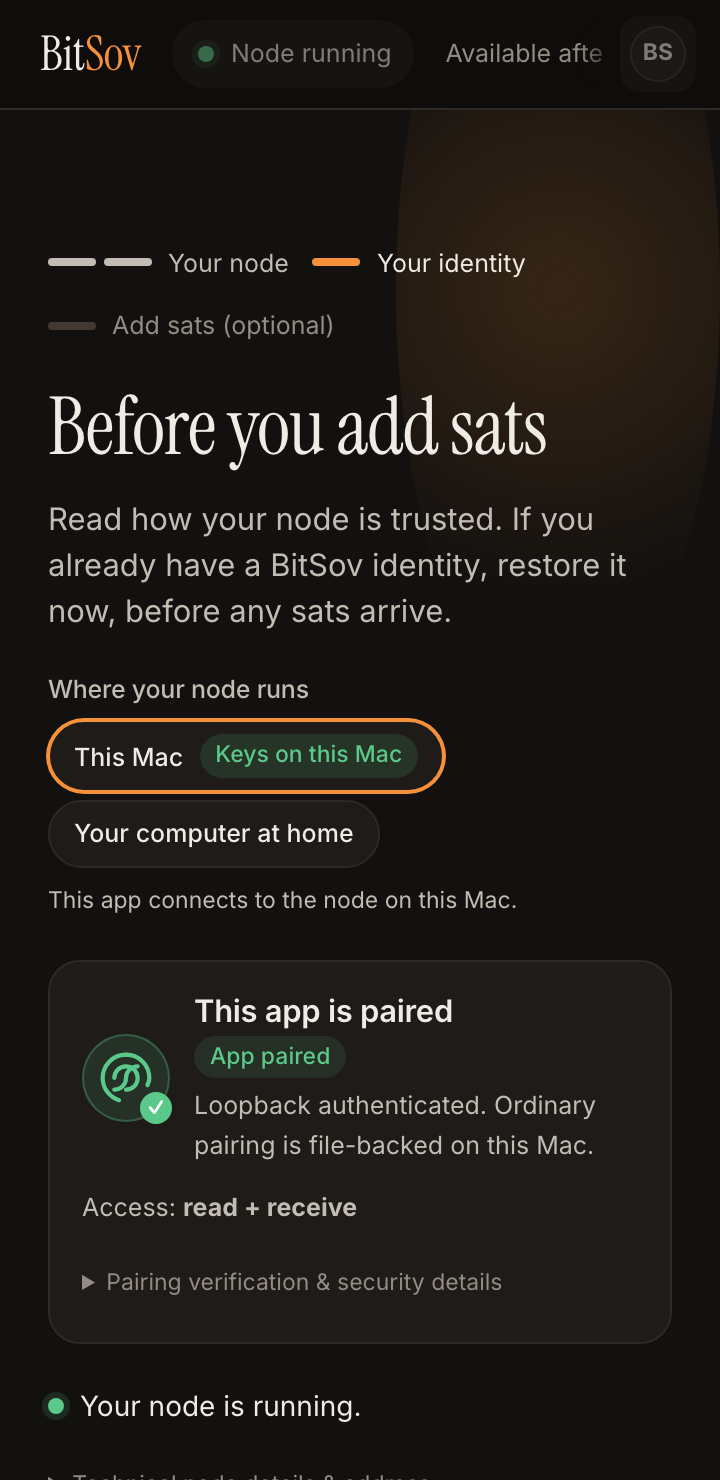
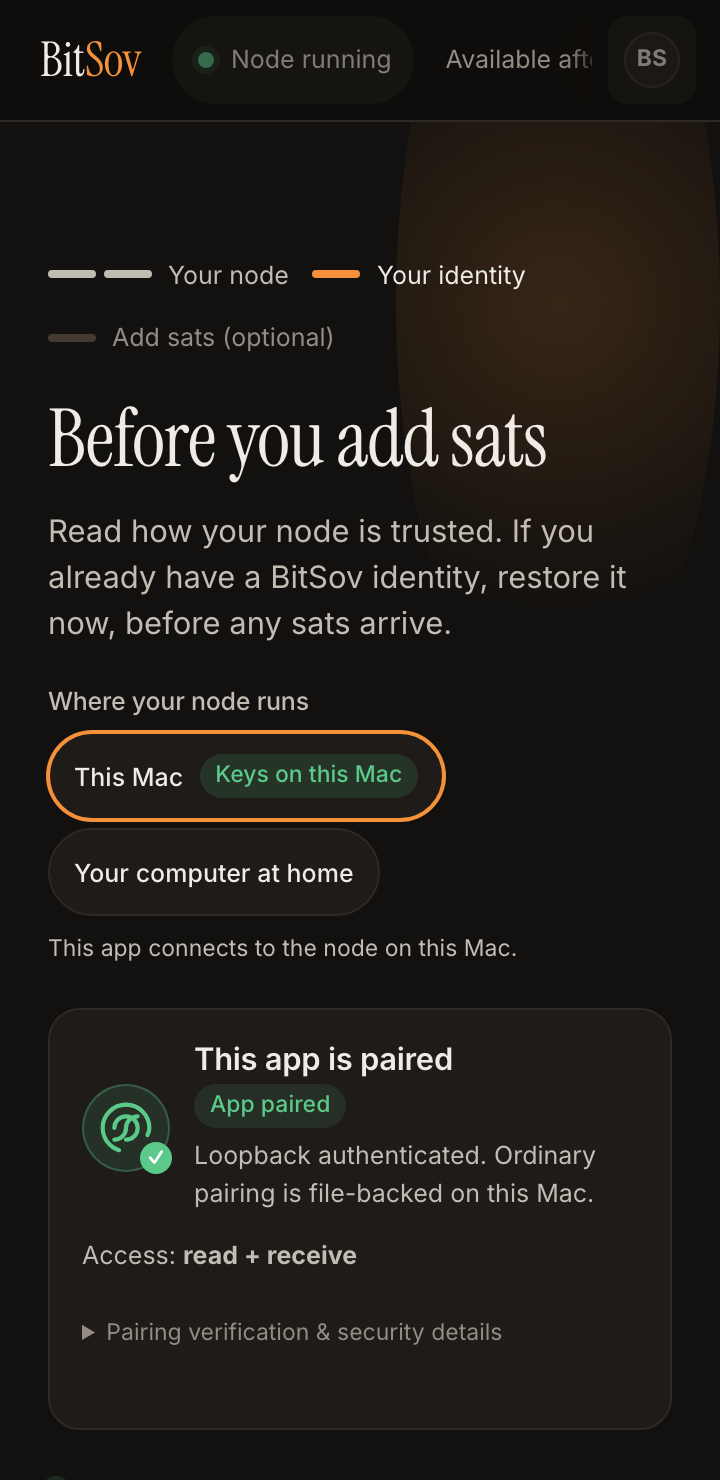
fix(ui): phone layout round 1: + New reachable, 44 px tap targets, menu fits 481–680 px
- + New (node-id QR, introduction card, starter bitcoin) is never hidden:
  it is pinned with You at the strip's right edge (a 44 px "+" on a phone,
  its name still "+ New").
- Phone tap targets: every button, tab, disclosure, radio and menu row is
  at least 44 px (budget choices, You, menu rows, composer buttons, Send,
  theme/amount toggles, Body rows, the cost ⓘ's tap area).
- The message text gets its own full row on a phone; emoji, voice, + and
  Send sit under it.
- The pinned foot and the downward You menu now apply wherever the rail is
  a top strip (≤ 680 px), fixing the pre-existing clipping at 481–680 px.
  The menu's top comes from --bar-h (and the safe area), not a literal.
- capture-phone.cjs reports any tap target under 44 × 44 (TAPS=1): none on
  19 surfaces at 360 and 390 px, and no sideways scroll.

diff --git a/tests/phone-layout.test.ts b/tests/phone-layout.test.ts
@@ -2,47 +2,70 @@ import { readFileSync } from 'node:fs';
 import { join } from 'node:path';
 import { describe, expect, it } from 'vitest';
 
-// Phone (< 480 px): wallet, profile and settings stay one tap away, nothing
-// opens off screen, and approvals and settings fit the width. Pinned here so a
-// later desktop change cannot quietly take them away. Measured with
-// scripts/design/capture-phone.cjs at 360 and 390 px (no sideways page scroll).
+// Narrow and phone layouts: + New and You (wallet, profile, settings) stay
+// reachable, nothing opens off screen, and every phone tap target is at least
+// 44 px. Measured with scripts/design/capture-phone.cjs (TAPS=1) at 360 and
+// 390 px: no sideways page scroll and no target under 44 × 44.
 const css = readFileSync(join(__dirname, '../src/styles.css'), 'utf8').replace(/\/\*[\s\S]*?\*\//g, '');
-function phone(): string {
-  const at = css.indexOf('@media (max-width: 480px)');
-  expect(at).toBeGreaterThan(-1);
-  let depth = 0;
-  let i = css.indexOf('{', at);
-  const start = i;
-  for (; i < css.length; i++) {
-    if (css[i] === '{') depth++;
-    else if (css[i] === '}' && --depth === 0) break;
+/** Every `{…}` body of the given @media query, in source order. */
+function blocks(query: string): string[] {
+  const out: string[] = [];
+  for (let at = css.indexOf(query); at >= 0; at = css.indexOf(query, at + 1)) {
+    let depth = 0;
+    let i = css.indexOf('{', at);
+    const start = i;
+    for (; i < css.length; i++) {
+      if (css[i] === '{') depth++;
+      else if (css[i] === '}' && --depth === 0) break;
+    }
+    out.push(css.slice(start, i));
   }
-  return css.slice(start, i);
+  return out;
 }
-const rule = (block: string, selector: string) => {
-  const m = block.match(new RegExp(`${selector.replace(/[.*+?^${}()|[\]\\]/g, '\\$&')}\\s*\\{([^}]*)\\}`));
+const rule = (b: string, selector: string) => {
+  const m = b.match(new RegExp(`${selector.replace(/[.*+?^${}()|[\]\\]/g, '\\$&')}\\s*\\{([^}]*)\\}`));
   return m ? m[1] : '';
 };
+// The narrow block that pins the rail foot (an older 680 px block sets up the strip itself).
+const narrow = blocks('@media (max-width: 680px)').find((b) => /\.rail-foot\s*\{[^}]*sticky/.test(b)) ?? '';
+const phone = blocks('@media (max-width: 480px)')[0] ?? '';
 
-describe('phone layout', () => {
-  const p = phone();
-  it('keeps You (wallet, profile, settings) pinned in view on the top strip', () => {
-    expect(rule(p, '.rail-foot')).toMatch(/position:\s*sticky/);
-    expect(rule(p, '.rail-foot')).toMatch(/right:\s*0/);
+describe('narrow layout (top strip)', () => {
+  it('pins + New and You at the strip’s right edge, at least 44 px', () => {
+    expect(rule(narrow, '.rail-foot')).toMatch(/position:\s*sticky/);
+    expect(rule(narrow, '.rail-foot')).toMatch(/right:\s*0/);
+    expect(rule(narrow, '.rail-foot .new-track')).toMatch(/min-height:\s*44px/);
+    expect(rule(narrow, '.profile-avatar')).toMatch(/min-width:\s*44px/);
+    expect(rule(narrow, '.profile-avatar')).toMatch(/min-height:\s*44px/);
+    // + New is never hidden: it is the only way to the node-id QR, the intro card and starter bitcoin.
+    expect(css).not.toMatch(/\.new-track\s*\{[^}]*display:\s*none/);
   });
-  it('opens the You menu down from the bar, inside the screen', () => {
-    const m = rule(p, '.avatar-menu');
+  it('opens the You menu down from the bar, inside the screen, with 44 px rows', () => {
+    const m = rule(narrow, '.avatar-menu');
     expect(m).toMatch(/position:\s*fixed/);
     expect(m).toMatch(/bottom:\s*auto/);
+    expect(m).toMatch(/top:\s*calc\(var\(--bar-h\)/);
     expect(m).toMatch(/calc\(100vw/);
+    expect(rule(narrow, '.avatar-menu-item')).toMatch(/min-height:\s*44px/);
   });
-  it('stacks the budget approval and its choices', () => {
-    expect(rule(p, '.approval.slim-approval')).toMatch(/flex-direction:\s*column/);
-    expect(rule(p, '.approval.slim-approval .presets')).toMatch(/flex-direction:\s*column/);
+});
+
+describe('phone layout', () => {
+  it('stacks the budget approval; each choice is 44 px', () => {
+    expect(rule(phone, '.approval.slim-approval')).toMatch(/flex-direction:\s*column/);
+    expect(rule(phone, '.approval.slim-approval .presets')).toMatch(/flex-direction:\s*column/);
+    expect(rule(phone, '.approval.slim-approval .chip')).toMatch(/min-height:\s*44px/);
   });
   it('keeps settings tabs on one scrolling row', () => {
-    const t = rule(p, '.settings-head .tabs');
+    const t = rule(phone, '.settings-head .tabs');
     expect(t).toMatch(/flex-wrap:\s*nowrap/);
     expect(t).toMatch(/overflow-x:\s*auto/);
+  });
+  it('makes every button, tab and disclosure at least 44 px', () => {
+    expect(phone).toMatch(/button:not\(\.link\), summary, \[role='tab'\], \[role='radio'\], \[role='menuitem'\] \{ min-height: 44px; \}/);
+    expect(rule(phone, 'button:not(.link)')).toMatch(/min-width:\s*44px/);
+  });
+  it('gives the message text its own row', () => {
+    expect(rule(phone, '.signal-bar > textarea')).toMatch(/flex:\s*1 1 100%/);
   });
 });

diff --git a/src/styles.css b/src/styles.css
@@ -1307,25 +1307,51 @@ input[type='checkbox'], input[type='radio'] { width: auto; flex: none; padding: 
   .add-device .form-actions > button { flex: 1 1 180px; }
 }
 
-/* Phone (< 480 px): everything reachable without sideways page scroll. */
-@media (max-width: 480px) {
-  /* The top strip scrolls; You (wallet, profile, settings) stays pinned at its right edge. */
-  .rail { gap: var(--s-2); padding: var(--s-2) 0 var(--s-2) var(--s-3); scrollbar-width: none; }
+/* Narrow (rail is a top strip below 680 px): You and + New stay pinned and reachable. */
+@media (max-width: 680px) {
+  :root { --bar-h: 60px; }
+  .rail { min-height: var(--bar-h); gap: var(--s-2); padding: var(--s-2) 0 var(--s-2) var(--s-3); scrollbar-width: none; }
   .rail::-webkit-scrollbar { display: none; }
-  .rail-foot { position: sticky; right: 0; z-index: 2; margin-left: auto; padding: 0 var(--s-3) 0 var(--s-2); background: var(--sunk); box-shadow: -14px 0 12px -10px var(--sunk); }
-  .rail-foot .new-track { display: none; }
+  /* The strip scrolls; + New (node-id QR, introduction card, starter bitcoin) and You stay pinned at its right edge. */
+  .rail-foot { position: sticky; right: 0; z-index: 2; margin-left: auto; gap: var(--s-1); padding: 0 var(--s-3) 0 var(--s-2); background: var(--sunk); box-shadow: -14px 0 12px -10px var(--sunk); }
+  .rail-foot .new-track { min-height: 44px; padding: 0 12px; white-space: nowrap; }
+  /* On a phone the pinned pair stays small: + New shows as "+" (its name stays "+ New"). */
+  .profile-avatar { min-width: 44px; min-height: 44px; justify-content: center; }
   /* Its menu opens down from the bar, inside the screen (a scrolling strip would clip it). */
-  .avatar-menu { position: fixed; top: 60px; right: var(--s-3); left: auto; bottom: auto; min-width: min(260px, calc(100vw - 2 * var(--s-3))); transform-origin: top right; }
+  .avatar-menu { position: fixed; top: calc(var(--bar-h) + env(safe-area-inset-top, 0px)); right: var(--s-3); left: auto; bottom: auto; min-width: min(260px, calc(100vw - 2 * var(--s-3))); transform-origin: top right; }
+  .avatar-menu-item { min-height: 44px; align-items: center; }
+}
+
+/* Phone (< 480 px): everything reachable without sideways page scroll, every tap target at least 44 px. */
+@media (max-width: 480px) {
   /* Chat header: the name and the call buttons; the node id lives in the contact panel. */
   .track-head { gap: var(--s-2); padding: var(--s-3) var(--s-4); }
   .track-head .sub:not(:has(.endpoint-badge)) { display: none; }
   .track-head .call-buttons { margin-left: auto; }
+  .call-button { min-width: 44px; min-height: 44px; }
   /* Budget approval: the sentence, then the choices, each full width. */
   .approval.slim-approval { flex-direction: column; align-items: stretch; }
   .approval.slim-approval .presets { flex-direction: column; }
-  .approval.slim-approval .chip { padding: 8px 12px; font-size: var(--t-sm); text-align: left; }
+  .approval.slim-approval .chip { min-height: 44px; padding: 8px 12px; font-size: var(--t-sm); text-align: left; }
   /* Settings: one row of tabs that scrolls, Close always visible. */
   .settings-head { flex-wrap: nowrap; gap: var(--s-2); }
   .settings-head .tabs { flex-wrap: nowrap; overflow-x: auto; scrollbar-width: none; min-width: 0; }
   .settings-head .tabs::-webkit-scrollbar { display: none; }
+  .settings-head .tabs button { min-height: 44px; }
+  .rail-foot .new-track { width: 44px; padding: 0; font-size: 0; }
+  .rail-foot .new-track::before { content: '+'; font-size: 20px; line-height: 1; }
+  /* Every control a thumb reaches is at least 44 px tall (inline text links excepted). */
+  button:not(.link), summary, [role='tab'], [role='radio'], [role='menuitem'] { min-height: 44px; }
+  button:not(.link) { min-width: 44px; }
+  .context-toggle, .composer .attach, .ai-ask-btn, .info-btn, .icon-btn { min-width: 44px; }
+  .send-btn.primary, .primary.soft.send-btn, .send-btn, .composer .attach { height: 44px; min-height: 44px; border-radius: 22px; }
+  .node-target-section.compact .node-target-card { min-height: 44px; }
+  .track-title-btn, .composer-info > summary { min-width: 44px; }
+  /* Message bar: the text gets its own full row; emoji, voice, + and Send sit under it. */
+  .signal-bar { flex-wrap: wrap; row-gap: var(--s-2); }
+  .signal-bar > textarea { order: -1; flex: 1 1 100%; }
+  .signal-bar > .send-btn, .signal-bar > [data-send] { margin-left: auto; }
+  /* The cost ⓘ keeps its small look; its tap area grows to 44 px around it. */
+  .composer-info > summary { position: relative; }
+  .composer-info > summary::after { content: ''; position: absolute; inset: -11px; }
 }
